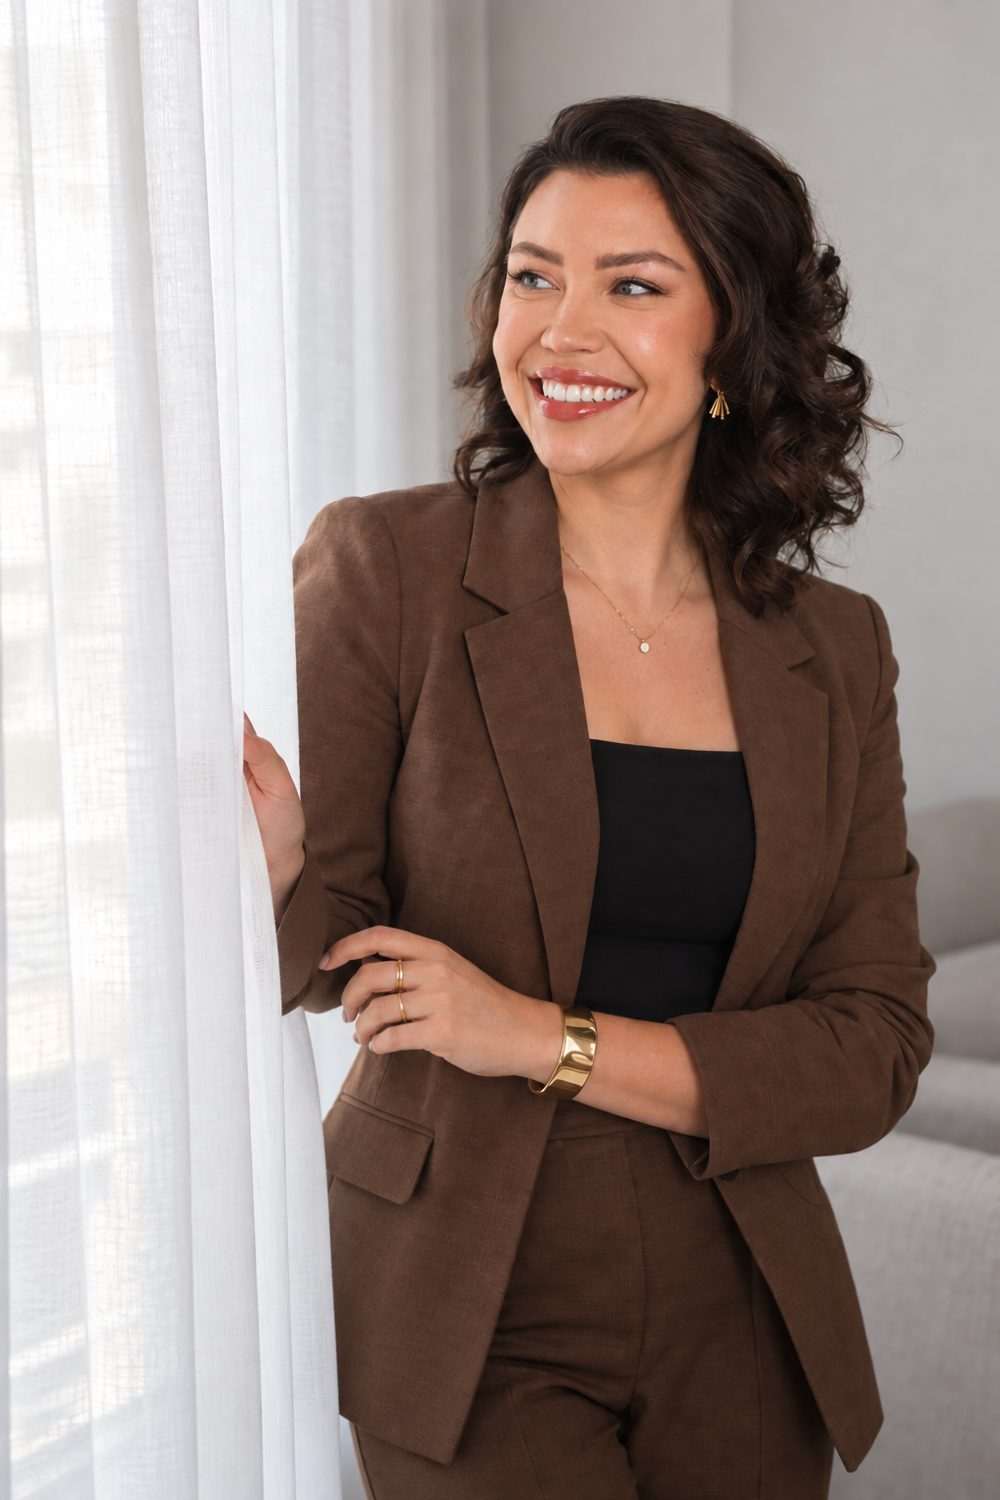
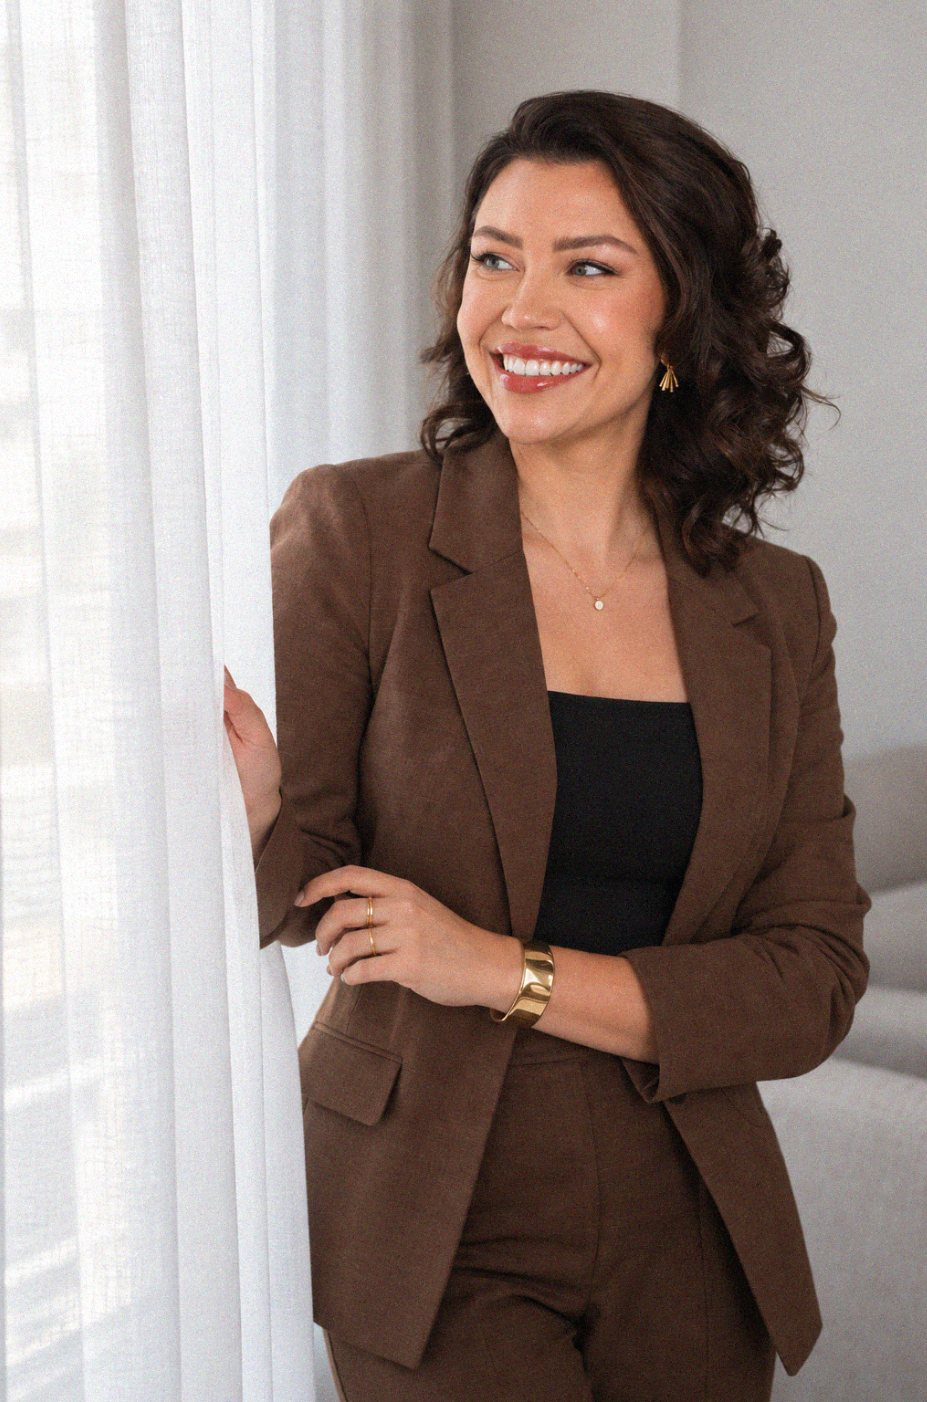
Atualiza fotos, tratamentos e horário de Vila Velha
- Fotos novas do ensaio, recortadas sem a faixa branca, e foto no consultório em "Onde atendo"
- Tratamentos com ortodontia e ortopedia funcional primeiro; sem emergências
- Vila Velha: segunda, terça, quarta e sexta
- Prévia do link (og.jpg) e marcação de dentista para o Google

diff --git a/index.html b/index.html
@@ -5,7 +5,45 @@
 <meta name="viewport" content="width=device-width, initial-scale=1, viewport-fit=cover">
 <link rel="icon" href="logo.png">
 <title>Dra. Izabella Brunoro</title>
-<meta name="description" content="Dra. Izabella Brunoro, cirurgiã-dentista em Vitória e Vila Velha (ES). CRO-ES 12337.">
+<meta name="description" content="Dra. Izabella Brunoro, cirurgiã-dentista em Vitória e Vila Velha (ES). Ortodontia, ortopedia funcional dos maxilares e cuidado de rotina. CRO-ES 12337.">
+<meta property="og:type" content="website">
+<meta property="og:locale" content="pt_BR">
+<meta property="og:url" content="https://draizabellabrunoro.github.io/">
+<meta property="og:title" content="Dra. Izabella Brunoro · Cirurgiã-dentista">
+<meta property="og:description" content="Ortodontia, ortopedia funcional dos maxilares e cuidado de rotina em Vitória e Vila Velha (ES). Agende pelo WhatsApp.">
+<meta property="og:image" content="https://draizabellabrunoro.github.io/og.jpg">
+<meta property="og:image:width" content="1200">
+<meta property="og:image:height" content="630">
+<meta name="twitter:card" content="summary_large_image">
+<script type="application/ld+json">
+{
+  "@context": "https://schema.org",
+  "@type": "Dentist",
+  "name": "Dra. Izabella Brunoro",
+  "description": "Cirurgiã-dentista (CRO-ES 12337). Ortodontia, ortopedia funcional dos maxilares e cuidado de rotina.",
+  "url": "https://draizabellabrunoro.github.io/",
+  "image": "https://draizabellabrunoro.github.io/og.jpg",
+  "sameAs": ["https://www.instagram.com/dra.izabellabrunoro"],
+  "location": [
+    {
+      "@type": "Dentist",
+      "name": "Dra. Izabella Brunoro · Zucoloto Odontologia",
+      "telephone": "+55 27 98841-4358",
+      "address": {"@type": "PostalAddress", "streetAddress": "R. das Palmeiras, 685, Ed. Contemporâneo Empresarial, sala 1511", "addressLocality": "Vitória", "addressRegion": "ES", "postalCode": "29056-210", "addressCountry": "BR"}
+    },
+    {
+      "@type": "Dentist",
+      "name": "Dra. Izabella Brunoro · Clínica Odonto Center Itaparica",
+      "telephone": "+55 27 99516-8307",
+      "address": {"@type": "PostalAddress", "streetAddress": "Av. Santa Leopoldina, 1375", "addressLocality": "Vila Velha", "addressRegion": "ES", "postalCode": "29102-040", "addressCountry": "BR"},
+      "openingHoursSpecification": [
+        {"@type": "OpeningHoursSpecification", "dayOfWeek": ["Monday", "Tuesday", "Wednesday"], "opens": "08:00", "closes": "18:00"},
+        {"@type": "OpeningHoursSpecification", "dayOfWeek": "Friday", "opens": "08:00", "closes": "17:00"}
+      ]
+    }
+  ]
+}
+</script>
 <link rel="preconnect" href="https://fonts.googleapis.com">
 <link rel="preconnect" href="https://fonts.gstatic.com" crossorigin>
 <link rel="stylesheet" href="https://fonts.googleapis.com/css2?family=Bodoni+Moda:ital,opsz,wght@0,6..96,400;0,6..96,500;1,6..96,400&family=Manrope:wght@300;400;500;600&display=swap">
@@ -147,6 +185,10 @@ section{padding-block:clamp(64px,9vw,128px)}
 .loc .actions{display:flex;flex-wrap:wrap;gap:10px;margin-top:auto}
 .phone{font-variant-numeric:tabular-nums;font-size:.9rem;color:var(--muted);user-select:all}
 @media (max-width:860px){.locs{grid-template-columns:1fr}}
+.at-intro{display:grid;grid-template-columns:.9fr 1.1fr;gap:clamp(32px,6vw,88px);align-items:end;margin-bottom:clamp(36px,5vw,64px)}
+.at-intro .sec-head{margin-bottom:0;min-width:0}
+.at-intro .frame{border-radius:4px;aspect-ratio:3/2}
+@media (max-width:860px){.at-intro{grid-template-columns:1fr}}
 
 /* Closing */
 .closing{text-align:left}
@@ -182,7 +224,7 @@ footer .wrap{display:flex;flex-wrap:wrap;justify-content:space-between;gap:12px}
       <div class="hero-copy">
         <p class="eyebrow fade">Odontologia em Vitória e Vila Velha · ES</p>
         <h1 class="fade d2">Cuidado de verdade, para um sorriso que é <em>seu</em>.</h1>
-        <p class="lede fade d3">Atendimento humanizado, ciência atualizada e atenção a cada detalhe, da limpeza à harmonização do sorriso.</p>
+        <p class="lede fade d3">Atendimento humanizado, ciência atualizada e atenção a cada detalhe, da prevenção ao alinhamento do sorriso.</p>
         <div class="ctas">
           <a class="btn btn-solid" href="https://wa.me/5527988414358?text=Ol%C3%A1%2C%20tudo%20bem%3F%20Gostaria%20de%20agendar%20um%20hor%C3%A1rio%20com%20a%20Dra.%20Izabella%20Brunoro" target="_blank" rel="noopener">
             <svg viewBox="0 0 24 24" fill="currentColor" aria-hidden="true"><path id="wa-icon" d="M12 2a10 10 0 0 0-8.6 15.1L2 22l5-1.3A10 10 0 1 0 12 2Zm0 18.2c-1.5 0-3-.4-4.3-1.2l-.3-.2-3 .8.8-2.9-.2-.3A8.2 8.2 0 1 1 12 20.2Zm4.5-6.1c-.2-.1-1.5-.7-1.7-.8-.2-.1-.4-.1-.6.1l-.8 1c-.1.2-.3.2-.5.1a6.7 6.7 0 0 1-3.3-2.9c-.3-.4.2-.4.7-1.3.1-.2 0-.3 0-.4l-.8-1.8c-.2-.5-.4-.4-.6-.4h-.5a1 1 0 0 0-.7.3 3 3 0 0 0-.9 2.2c0 1.3 1 2.6 1.1 2.8.1.2 1.9 2.9 4.6 4 1.7.7 2.4.8 3.2.7.5-.1 1.5-.6 1.8-1.2.2-.6.2-1.1.1-1.2l-.4-.2Z"/></svg>
@@ -196,7 +238,7 @@ footer .wrap{display:flex;flex-wrap:wrap;justify-content:space-between;gap:12px}
         </div>
       </div>
       <figure class="frame fade" style="margin:0">
-        <img src="hero.jpg" alt="Dra. Izabella Brunoro sorrindo, de blazer marrom, ao lado de uma janela" width="1000" height="1500" style="object-position:50% 18%">
+        <img src="hero.jpg" alt="Dra. Izabella Brunoro sorrindo, de blazer marrom, ao lado de uma janela" width="927" height="1402" style="object-position:50% 18%">
         <figcaption class="frame-tag"><b>Dra. Izabella Brunoro</b>Cirurgiã-dentista</figcaption>
       </figure>
     </div>
@@ -205,7 +247,7 @@ footer .wrap{display:flex;flex-wrap:wrap;justify-content:space-between;gap:12px}
   <section class="about" id="sobre">
     <div class="wrap">
       <figure class="frame" style="margin:0">
-        <img src="sobre.jpg" alt="Retrato da Dra. Izabella Brunoro de camisa branca e óculos" loading="lazy" width="1052" height="1500" style="object-position:50% 25%">
+        <img src="sobre.jpg" alt="Dra. Izabella Brunoro sorrindo, de camisa branca e óculos" loading="lazy" width="841" height="1402" style="object-position:50% 20%">
       </figure>
       <div class="about-text">
         <p class="eyebrow">Sobre mim</p>
@@ -226,23 +268,23 @@ footer .wrap{display:flex;flex-wrap:wrap;justify-content:space-between;gap:12px}
       <div class="tx-intro">
         <div class="sec-head">
           <p class="eyebrow">Tratamentos</p>
-          <h2>Da prevenção à estética, com o mesmo cuidado.</h2>
-          <p class="tx-lede">Cada plano começa por uma avaliação completa. Na ortodontia, aparelho fixo ou alinhadores transparentes são indicados conforme o seu caso e a sua rotina.</p>
+          <h2>Da prevenção à ortodontia, com o mesmo cuidado.</h2>
+          <p class="tx-lede">Cada plano começa por uma avaliação completa. Na ortodontia, aparelho fixo ou alinhadores transparentes são indicados conforme o seu caso e a sua rotina. Nas crianças, a ortopedia funcional dos maxilares acompanha o crescimento desde cedo.</p>
         </div>
         <figure class="frame" style="margin:0">
-          <img src="ortodontia.jpg" alt="Dra. Izabella Brunoro à mesa com modelo ortodôntico, alinhador transparente e livros de ortodontia" loading="lazy" width="1045" height="1500" style="object-position:50% 0%">
+          <img src="ortodontia.jpg" alt="Dra. Izabella Brunoro à mesa com modelo ortodôntico, alinhador transparente e livros de ortodontia" loading="lazy" width="966" height="1394" style="object-position:50% 0%">
         </figure>
       </div>
       <div class="tx">
+        <article><span class="kind">Ortodontia</span><h3>Alinhamento do sorriso</h3><p>Aparelho fixo ou alinhadores transparentes para corrigir a posição dos dentes e a mordida.</p></article>
+        <article><span class="kind">Ortopedia funcional</span><h3>Crescimento da face</h3><p>Para crianças em fase de crescimento: orienta o desenvolvimento dos maxilares e corrige a mordida desde cedo.</p></article>
+        <article><span class="kind">Infantil</span><h3>Atendimento a crianças</h3><p>Consultas leves e acolhedoras, para que os pequenos criem uma boa relação com o dentista.</p></article>
+        <article><span class="kind">Primeira consulta</span><h3>Avaliação</h3><p>Conversa, exame clínico e um plano de tratamento claro, feito para você.</p></article>
         <article><span class="kind">Prevenção</span><h3>Limpeza</h3><p>Remoção de placa e tártaro, polimento e orientação de higiene para manter a saúde da boca em dia.</p></article>
         <article><span class="kind">Estética</span><h3>Clareamento</h3><p>Dentes mais claros com acompanhamento profissional, respeitando a sensibilidade de cada paciente.</p></article>
-        <article><span class="kind">Ortodontia</span><h3>Alinhamento do sorriso</h3><p>Avaliação e tratamento ortodôntico para corrigir a posição dos dentes e a mordida.</p></article>
+        <article><span class="kind">Harmonização</span><h3>Botox e preenchimento</h3><p>Procedimentos de harmonização orofacial para equilíbrio e naturalidade do rosto.</p></article>
         <article><span class="kind">Restauradora</span><h3>Restauração</h3><p>Recuperação da forma e da função do dente com materiais na cor natural.</p></article>
         <article><span class="kind">Endodontia</span><h3>Tratamento de canal</h3><p>Tratamento da polpa do dente para eliminar a dor e preservar o dente natural.</p></article>
-        <article><span class="kind">Harmonização</span><h3>Botox e preenchimento</h3><p>Procedimentos de harmonização orofacial para equilíbrio e naturalidade do rosto.</p></article>
-        <article><span class="kind">Infantil</span><h3>Atendimento a crianças</h3><p>Consultas leves e acolhedoras, para que os pequenos criem uma boa relação com o dentista.</p></article>
-        <article><span class="kind">Urgência</span><h3>Emergências</h3><p>Dor, fratura ou trauma dental: entre em contato para um atendimento o quanto antes.</p></article>
-        <article><span class="kind">Primeira consulta</span><h3>Avaliação</h3><p>Conversa, exame clínico e um plano de tratamento claro, feito para você.</p></article>
       </div>
     </div>
   </section>
@@ -254,16 +296,21 @@ footer .wrap{display:flex;flex-wrap:wrap;justify-content:space-between;gap:12px}
         <p class="cap">Dra. Izabella Brunoro</p>
       </div>
       <figure class="frame" style="margin:0">
-        <img src="retrato.jpg" alt="Dra. Izabella Brunoro lendo, sentada em uma poltrona de couro" loading="lazy" width="1100" height="1467" style="object-position:50% 30%">
+        <img src="retrato.jpg" alt="Dra. Izabella Brunoro lendo, sentada em uma poltrona de couro" loading="lazy" width="1048" height="1402" style="object-position:50% 30%">
       </figure>
     </div>
   </section>
 
   <section id="atendimento">
     <div class="wrap">
-      <div class="sec-head">
-        <p class="eyebrow">Onde atendo</p>
-        <h2>Dois consultórios na Grande Vitória.</h2>
+      <div class="at-intro">
+        <div class="sec-head">
+          <p class="eyebrow">Onde atendo</p>
+          <h2>Dois consultórios na Grande Vitória.</h2>
+        </div>
+        <figure class="frame" style="margin:0">
+          <img src="consultorio.jpg" alt="Dra. Izabella Brunoro de jaleco azul, ao lado da cadeira odontológica" loading="lazy" width="1535" height="1025" style="object-position:70% 30%">
+        </figure>
       </div>
       <div class="locs">
         <div class="loc">
@@ -288,9 +335,9 @@ footer .wrap{display:flex;flex-wrap:wrap;justify-content:space-between;gap:12px}
             <address>Av. Santa Leopoldina, 1375<br>Praia de Itaparica, Vila Velha – ES, 29102-040</address>
           </div>
           <dl class="hours">
+            <dt>Segunda</dt><dd>8h – 18h</dd>
             <dt>Terça</dt><dd>8h – 18h</dd>
             <dt>Quarta</dt><dd>8h – 18h</dd>
-            <dt>Quinta</dt><dd>8h – 18h</dd>
             <dt>Sexta</dt><dd>8h – 17h</dd>
           </dl>
           <p class="phone">WhatsApp (27) 99516-8307</p>
